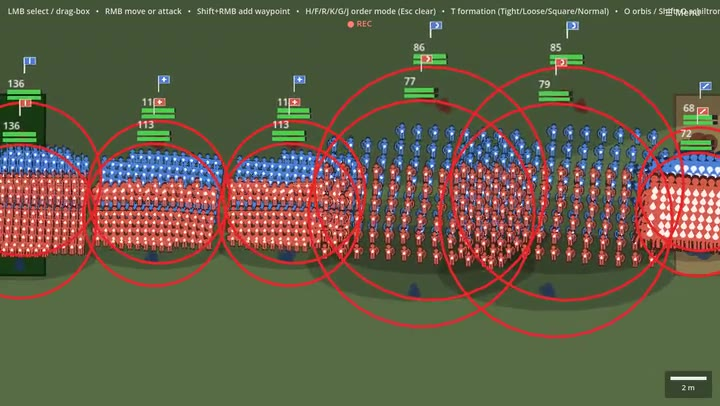
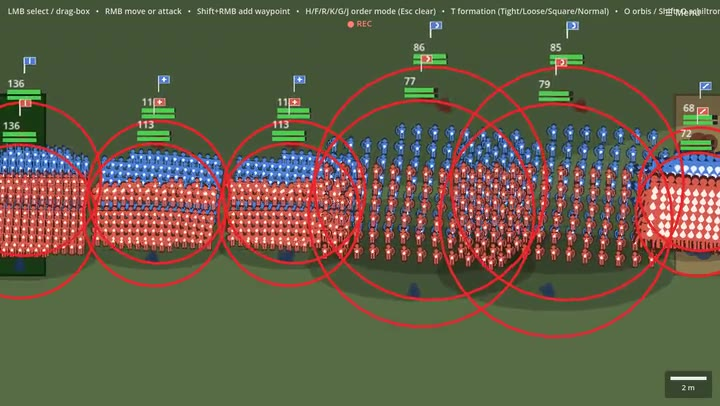
Deploying to gh-pages from @ Lacaedemon/sparta@92994e379d3ab2b7a2e524fceeda026c5e3d181d 🚀

diff --git a/tactics.html b/tactics.html
@@ -620,7 +620,7 @@ Figure&nbsp;2: A team’s last unit routs. A lone player infantry is broken and 
 <p>A wider line is easier to outlast in depth and quicker to crumble once it bends; a deeper one trades frontage for staying power. The width holds as casualties thin the ranks, so a line you set wide stays wide until you change it.</p>
 <p><strong>File-doubling for a fast reshape.</strong> The <kbd>[</kbd> / <kbd>]</kbd> steps are fine for fine-tuning, but two drill maneuvers swap the whole shape in one press. <kbd>B</kbd> (<strong>explicatio</strong>) doubles the frontage and halves the depth — a column unfolds into a wide line to overlap a flank or plug a gap. <kbd>N</kbd> (<strong>duplicatio</strong>) does the reverse: it halves the frontage and doubles the depth, folding a broad line into a deep column so you can squeeze down a lane or mass depth to punch through one point. The men walk to their new slots rather than snapping, so there’s a beat of disorder while the block reshapes — don’t start the maneuver in contact, and give it room before the enemy arrives. A natural rhythm is duplicatio to march a column through a chokepoint, then explicatio to deploy back into line on the far side.</p>
 <p><strong>How a line reforms after losses.</strong> The front rank takes the hits, but the block loses depth from the rear. The front rank keeps its full width, the file behind each fighter feeds men forward to hold the contact line, and the depth shrinks rank by rank. When the rearmost rank is left short-handed, its survivors close up toward the centre — the wings shorten first while the middle files stay deepest — rather than leaving a ragged, gap-toothed back rank. So a mauled unit still presents a solid front and never bulges wider than the frontage you set; you read its losses as a shrinking depth, not a fraying line.</p>
-<p><strong>Deploy a whole battle line at once.</strong> Select several regiments and drag one flank line (right-click and drag): the line splits among them. By default it splits to <strong>equal depth</strong>, so every regiment forms up the same number of ranks — a uniform front where bigger units just take a wider slice. That keeps your whole line’s staying power even, with no thin spot for the enemy to punch through. Press <kbd>Y</kbd> to cycle to <strong>equal width</strong> when you’d rather every unit cover the same frontage (small units stack deeper). They sort left-to-right by where they already stand, so nobody crosses the field to reach a slot — a fast way to dress a ragged group into one clean front before the enemy closes. Hold Shift to place them in selection order instead when you want a specific regiment on a specific flank.</p>
+<p><strong>Deploy a whole battle line at once.</strong> Select several regiments and drag one flank line (right-click and drag): the line splits among them. By default it splits to <strong>equal depth</strong>, so every regiment forms up the same number of ranks — a uniform front where bigger units just take a wider slice. That keeps your whole line’s staying power even, with no thin spot for the enemy to punch through. Press <kbd>Y</kbd> (or <kbd>Shift</kbd> + <kbd>Y</kbd> to cycle the other way) to switch to <strong>equal width</strong> when you’d rather every unit cover the same frontage (small units stack deeper). They sort left-to-right by where they already stand, so nobody crosses the field to reach a slot — a fast way to dress a ragged group into one clean front before the enemy closes. Hold Shift to place them in selection order instead when you want a specific regiment on a specific flank.</p>
 <p>Use <strong>☰ Menu → Form-up</strong> to configure the split: the upper radio buttons set the mode each battle starts in; the lower checkboxes (“Y-key cycles through…”) control which modes <kbd>Y</kbd> steps between mid-battle. Uncheck a mode to skip it entirely from the cycle.</p>
 </section>
 <section id="the-unit-triangle-rock-paper-scissors" class="level2">
@@ -644,7 +644,21 @@ Figure&nbsp;2: A team’s last unit routs. A lone player infantry is broken and 
 </section>
 <section id="formation-stances" class="level2">
 <h2 class="anchored" data-anchor-id="formation-stances">Formation stances</h2>
-<p>Press <kbd>T</kbd> to cycle a unit’s density — <strong>Normal</strong>, <strong>Tight</strong> (closed ranks: better missile and charge defence), <strong>Loose</strong> (open order: room to fire), and <strong>Square</strong> (the anti-cavalry ring, covered below). Two heavier <strong>shielded close-order stances</strong> build on Tight’s locked-shield density and are set from the control-bar Formation menu or their own direct keys.</p>
+<p>Press <kbd>T</kbd> to cycle a unit’s density — <strong>Normal</strong>, <strong>Tight</strong> (closed ranks: better missile and charge defence), <strong>Loose</strong> (open order: room to fire), and <strong>Square</strong> (the anti-cavalry ring, covered below). <kbd>Shift</kbd> + <kbd>T</kbd> cycles the other way, handy for stepping back one density without looping all the way round. Two heavier <strong>shielded close-order stances</strong> build on Tight’s locked-shield density and are set from the control-bar Formation menu or their own direct keys.</p>
+<div id="fig-formation-shift-reverse" class="demo quarto-float quarto-figure quarto-figure-center anchored">
+<figure class="quarto-float quarto-float-fig figure">
+<div aria-describedby="fig-formation-shift-reverse-caption-0ceaefa1-69ba-4598-a22c-09a6ac19f8ca">
+<video class="demo-video" controls="" muted="" loop="" playsinline="" preload="metadata" poster="media/formation_shift_reverse.jpg">
+  <source src="media/formation_shift_reverse.mp4" type="video/mp4">
+  Your browser can't play this clip --- see the
+  <a href="https://github.com/Lacaedemon/sparta">repository</a> to run the game.
+</video>
+</div>
+<figcaption class="quarto-float-caption-bottom quarto-float-caption quarto-float-fig" id="fig-formation-shift-reverse-caption-0ceaefa1-69ba-4598-a22c-09a6ac19f8ca">
+Figure&nbsp;3: Formation density cycling with the Shift-reverse: <kbd>T</kbd> steps Tight to Loose, then <kbd>Shift</kbd> + <kbd>T</kbd> steps back to Tight — the same parallelism as Shift+Y and Shift+X reversing the form-up-split and group-attack-mode cycles.
+</figcaption>
+</figure>
+</div>
 <ul>
 <li><strong>Shield Wall</strong> (<kbd>L</kbd>) — shields locked edge-to-edge, a static line. It sharply cuts the missile and melee damage a unit takes <strong>from the front</strong>, but only from the front: a shot or blow into the flank or rear ignores the wall. The wall barely moves, so it is a <strong>holding</strong> stance. Anchor a flank or a chokepoint with it and let the enemy break on the front — but keep its flanks screened, because that is where it is soft.</li>
 <li><strong>Testudo</strong> (<kbd>U</kbd>) — shields locked front, sides, and overhead: the strongest missile cover in the game, and it works <strong>from every direction</strong>. The cost is that the men fight weakly (packed head-down under their shields) and move slowest of all. It is an <strong>arrow-crossing</strong> stance, not a fighting one: walk a unit through a beaten zone of archery in testudo, then drop to Tight or Normal before it reaches melee.</li>
@@ -660,7 +674,7 @@ Figure&nbsp;2: A team’s last unit routs. A lone player infantry is broken and 
 </video>
 </div>
 <figcaption class="quarto-float-caption-bottom quarto-float-caption quarto-float-fig" id="fig-testudo-under-fire-caption-0ceaefa1-69ba-4598-a22c-09a6ac19f8ca">
-Figure&nbsp;3: Testudo under fire: an infantry unit locked in testudo, ringed by archers firing from all four sides, weathers the volleys that its overhead shields blunt from every direction.
+Figure&nbsp;4: Testudo under fire: an infantry unit locked in testudo, ringed by archers firing from all four sides, weathers the volleys that its overhead shields blunt from every direction.
 </figcaption>
 </figure>
 </div>
@@ -691,7 +705,7 @@ Figure&nbsp;3: Testudo under fire: an infantry unit locked in testudo, ringed by
 </video>
 </div>
 <figcaption class="quarto-float-caption-bottom quarto-float-caption quarto-float-fig" id="fig-square-caption-0ceaefa1-69ba-4598-a22c-09a6ac19f8ca">
-Figure&nbsp;4: Anti-cavalry square: an infantry unit is charged in the rear by two cavalry, then cycled to Square (T). The hollow ring faces outward on every side, so the rear charge finds no weak facing and is braced from behind — the unit holds where a rear-charged line would break.
+Figure&nbsp;5: Anti-cavalry square: an infantry unit is charged in the rear by two cavalry, then cycled to Square (T). The hollow ring faces outward on every side, so the rear charge finds no weak facing and is braced from behind — the unit holds where a rear-charged line would break.
 </figcaption>
 </figure>
 </div>
@@ -705,7 +719,7 @@ Figure&nbsp;4: Anti-cavalry square: an infantry unit is charged in the rear by t
 </video>
 </div>
 <figcaption class="quarto-float-caption-bottom quarto-float-caption quarto-float-fig" id="fig-schiltron-caption-0ceaefa1-69ba-4598-a22c-09a6ac19f8ca">
-Figure&nbsp;5: Schiltron: the same rear cavalry charge as above, but the unit forms Schiltron (Shift+O) instead of Orbis. The denser hedge braces the charge harder than orbis does, at a deeper offence cost.
+Figure&nbsp;6: Schiltron: the same rear cavalry charge as above, but the unit forms Schiltron (Shift+O) instead of Orbis. The denser hedge braces the charge harder than orbis does, at a deeper offence cost.
 </figcaption>
 </figure>
 </div>
@@ -719,7 +733,7 @@ Figure&nbsp;5: Schiltron: the same rear cavalry charge as above, but the unit fo
 </video>
 </div>
 <figcaption class="quarto-float-caption-bottom quarto-float-caption quarto-float-fig" id="fig-battle-ai-leaders-caption-0ceaefa1-69ba-4598-a22c-09a6ac19f8ca">
-Figure&nbsp;6: Two AI unit-leader decisions in one clash: the AI spearmen on the left form the anti-cavalry square on their own as player cavalry closes, with no player key press arming it. The AI infantry on the right advances and attacks, then re-targets and turns to face a second player unit that closes on its flank instead of fighting on with its back exposed.
+Figure&nbsp;7: Two AI unit-leader decisions in one clash: the AI spearmen on the left form the anti-cavalry square on their own as player cavalry closes, with no player key press arming it. The AI infantry on the right advances and attacks, then re-targets and turns to face a second player unit that closes on its flank instead of fighting on with its back exposed.
 </figcaption>
 </figure>
 </div>
@@ -800,7 +814,7 @@ Table&nbsp;2: Movement paces by unit type, in metres per second.
 </video>
 </div>
 <figcaption class="quarto-float-caption-bottom quarto-float-caption quarto-float-fig" id="fig-pace-modes-caption-0ceaefa1-69ba-4598-a22c-09a6ac19f8ca">
-Figure&nbsp;7: Pace modes: regiments walk on approach, jog when enemy archers open fire, then sprint at full charge speed within ~200 px of the target — all three AUTO phases in one advance. Toggle Walk advance (☰ Menu) to lock units to walk pace throughout.
+Figure&nbsp;8: Pace modes: regiments walk on approach, jog when enemy archers open fire, then sprint at full charge speed within ~200 px of the target — all three AUTO phases in one advance. Toggle Walk advance (☰ Menu) to lock units to walk pace throughout.
 </figcaption>
 </figure>
 </div>
@@ -834,7 +848,7 @@ Figure&nbsp;7: Pace modes: regiments walk on approach, jog when enemy archers op
 </video>
 </div>
 <figcaption class="quarto-float-caption-bottom quarto-float-caption quarto-float-fig" id="fig-decel-arrival-caption-0ceaefa1-69ba-4598-a22c-09a6ac19f8ca">
-Figure&nbsp;8: Braking on arrival: a lone Infantry regiment sprints toward a move order, eases off over the last stretch, and settles exactly on the ordered point — no lurching stop, no coasting past the marker.
+Figure&nbsp;9: Braking on arrival: a lone Infantry regiment sprints toward a move order, eases off over the last stretch, and settles exactly on the ordered point — no lurching stop, no coasting past the marker.
 </figcaption>
 </figure>
 </div>
@@ -869,7 +883,7 @@ Figure&nbsp;8: Braking on arrival: a lone Infantry regiment sprints toward a mov
 <li><strong>Focused</strong> (default) — every selected unit charges the same target. Use it to overwhelm a single regiment quickly.</li>
 <li><strong>Distributed</strong> — each unit picks a different nearby enemy, sorted by proximity to the clicked target. Extra units cycle through the list if you have more units than enemies. Use it to hold an entire line rather than piling onto one regiment and leaving the rest unengaged.</li>
 </ul>
-<p>The flash message in the top-centre of the screen confirms the active mode. The mode is sticky — it stays set until you press <kbd>X</kbd> again.</p>
+<p>The flash message in the top-centre of the screen confirms the active mode. The mode is sticky — it stays set until you press <kbd>X</kbd> again (<kbd>Shift</kbd> + <kbd>X</kbd> cycles the other way).</p>
 <div id="fig-group-attack" class="demo quarto-float quarto-figure quarto-figure-center anchored">
 <figure class="quarto-float quarto-float-fig figure">
 <div aria-describedby="fig-group-attack-caption-0ceaefa1-69ba-4598-a22c-09a6ac19f8ca">
@@ -880,7 +894,7 @@ Figure&nbsp;8: Braking on arrival: a lone Infantry regiment sprints toward a mov
 </video>
 </div>
 <figcaption class="quarto-float-caption-bottom quarto-float-caption quarto-float-fig" id="fig-group-attack-caption-0ceaefa1-69ba-4598-a22c-09a6ac19f8ca">
-Figure&nbsp;9: Group attack distribution: three regiments in distributed mode each target a different nearby enemy instead of all piling onto one.
+Figure&nbsp;10: Group attack distribution: three regiments in distributed mode each target a different nearby enemy instead of all piling onto one.
 </figcaption>
 </figure>
 </div>

diff --git a/how-to-play.html b/how-to-play.html
@@ -533,7 +533,7 @@ Table&nbsp;1: Battle controls: selection, orders, formations, drill maneuvers, a
 </tr>
 <tr class="even">
 <td>Form-up split mode</td>
-<td><kbd>Y</kbd> cycles through enabled modes (equal-depth / equal-width); configure which modes cycle and which is the battle default in <strong>☰ Menu</strong></td>
+<td><kbd>Y</kbd> cycles through enabled modes (equal-depth / equal-width); <kbd>Shift</kbd> + <kbd>Y</kbd> cycles the other way; configure which modes cycle and which is the battle default in <strong>☰ Menu</strong></td>
 </tr>
 <tr class="odd">
 <td>Reform before move</td>
@@ -549,7 +549,7 @@ Table&nbsp;1: Battle controls: selection, orders, formations, drill maneuvers, a
 </tr>
 <tr class="even">
 <td>Group attack mode</td>
-<td><kbd>X</kbd> cycles focused ↔︎ distributed · or <strong>control bar</strong></td>
+<td><kbd>X</kbd> cycles focused ↔︎ distributed (<kbd>Shift</kbd> + <kbd>X</kbd> cycles the other way) · or <strong>control bar</strong></td>
 </tr>
 <tr class="odd">
 <td>Relieve a friendly</td>
@@ -573,7 +573,7 @@ Table&nbsp;1: Battle controls: selection, orders, formations, drill maneuvers, a
 </tr>
 <tr class="even">
 <td>Formation</td>
-<td><kbd>T</kbd> (cycles Normal / Tight / Loose / Square) · or <strong>control bar</strong></td>
+<td><kbd>T</kbd> (cycles Normal / Tight / Loose / Square; <kbd>Shift</kbd> + <kbd>T</kbd> cycles the other way) · or <strong>control bar</strong></td>
 </tr>
 <tr class="odd">
 <td>Anti-cavalry square</td>
@@ -890,7 +890,7 @@ Figure&nbsp;14: Cavalry charge: two horse units receive an attack order and acce
 </figure>
 </div>
 <ol type="1">
-<li><strong>Select</strong> — left-click a unit, or drag a box to grab several at once. The info panel fills with the selected unit’s stats.</li>
+<li><strong>Select</strong> — left-click a unit, or drag a box to grab several at once. The info panel fills with the selected unit’s stats, including a flavor <strong>Commander</strong> rank (Centurion, Pilus Prior, Decurion, …) drawn from the real Roman officer hierarchy — cosmetic only, it has no effect on combat.</li>
 <li><strong>Order</strong> — right-click to send them. Move them onto an enemy’s flank, or right-click the enemy directly to attack. There is a brief <strong>reaction delay</strong> (~0.5 s, faster for cavalry) before units execute — orders aren’t instant.</li>
 <li><strong>Watch the bars</strong> — each unit flies a small <strong>regimental flag</strong> in its team colour and shows a strength bar that drops as it takes casualties. The flag is a click target too: clicking it selects the unit, just like clicking the block. Morale matters as much as numbers (see <a href="./tactics.html">Tactics</a>).</li>
 <li><strong>Navigate terrain</strong> — the field has two terrain patches: a <strong>dark-green forest</strong> (slows movement to 60%) on the left flank, and a <strong>tan hill</strong> (impassable) on the right. Units route around the hill automatically. See <a href="./tactics.html#terrain">Tactics → Terrain</a>.</li>